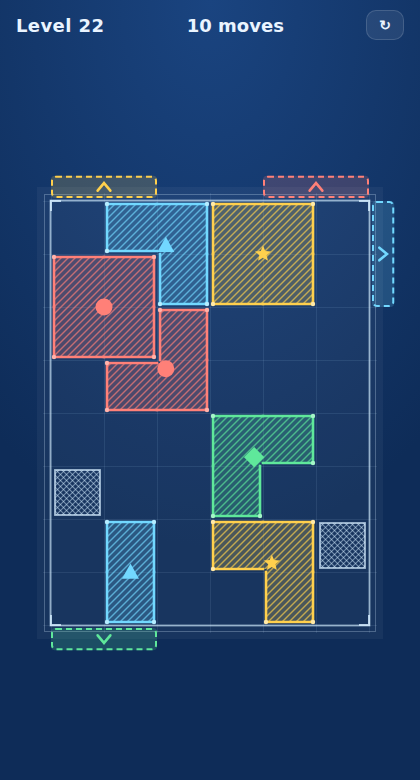
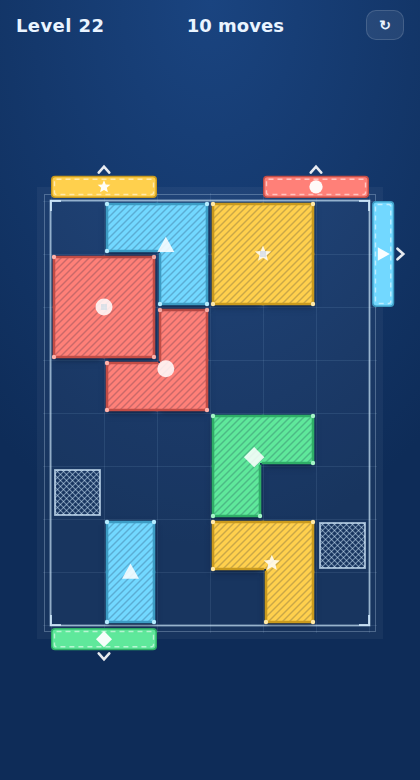
Legibility pass on all five art styles
Gate Escape: blocks are now solid ink objects with hatch as texture and a
drop shadow; gates are solid stamps with white match glyphs and chevrons.
Tarmac: wingspans constrained to the plane's own lane; per-cell corner
markings restore slide granularity. Shelved: per-color spine motifs plus a
brown swap for orange make all nine colors unambiguous. Bolt Out: etched
match symbols on every gem. All playtest bots re-verified.

Claude-Session: https://claude.ai/code/session_01XbvVqQh3C8ii6pXRsWoCLy

Changed region(s): [[0.1238, 0.2154, 0.9595, 0.8], [0.1238, 0.6462, 0.3714, 0.8615]]

diff --git a/prototypes/p01-gate-escape/dist/gate-escape.html b/prototypes/p01-gate-escape/dist/gate-escape.html
@@ -452,19 +452,22 @@ function render() {
     if (g.side === 'bottom') { gx = bx + g.start * cell; gy = by + bh + 3; w = along; h = th; ax = gx + w / 2; ay = gy + h / 2; rot = Math.PI; }
     if (g.side === 'left') { gx = bx - th - 3; gy = by + g.start * cell; w = th; h = along; ax = gx + w / 2; ay = gy + h / 2; rot = -Math.PI / 2; }
     if (g.side === 'right') { gx = bx + bw + 3; gy = by + g.start * cell; w = th; h = along; ax = gx + w / 2; ay = gy + h / 2; rot = Math.PI / 2; }
-    // stamped drafting tab: faint ink wash + dashed outline
-    ctx.fillStyle = c.main + '2e';
+    // solid ink stamp — must be unmissable at a glance
+    ctx.fillStyle = c.dark;
     rr(gx, gy, w, h, 4); ctx.fill();
-    ctx.strokeStyle = c.main; ctx.lineWidth = 2;
-    ctx.setLineDash([6, 4]);
-    rr(gx + 1, gy + 1, w - 2, h - 2, 4); ctx.stroke();
+    ctx.fillStyle = c.main;
+    rr(gx + 1.5, gy + 1.5, w - 3, h - 3, 3); ctx.fill();
+    ctx.setLineDash([5, 4]);
+    ctx.strokeStyle = 'rgba(255,255,255,.55)'; ctx.lineWidth = 1.4;
+    rr(gx + 3.5, gy + 3.5, w - 7, h - 7, 2); ctx.stroke();
     ctx.setLineDash([]);
-    // outward chevron
+    // match glyph on the tab + outward chevron floating past it
     ctx.translate(ax, ay); ctx.rotate(rot);
-    ctx.strokeStyle = c.main; ctx.lineWidth = 2.6; ctx.lineCap = 'round';
-    const ch = cell * 0.12;
+    drawGlyph(c.glyph, 0, 0, Math.min(cell * 0.13, th * 0.3), 'rgba(255,255,255,.95)');
+    ctx.strokeStyle = 'rgba(255,255,255,.9)'; ctx.lineWidth = 2.6; ctx.lineCap = 'round';
+    const ch = cell * 0.1;
     ctx.beginPath();
-    ctx.moveTo(-ch, ch * 0.6); ctx.lineTo(0, -ch * 0.6); ctx.lineTo(ch, ch * 0.6);
+    ctx.moveTo(-ch, -th * 0.62 - ch * 0.1); ctx.lineTo(0, -th * 0.62 - ch * 1.2); ctx.lineTo(ch, -th * 0.62 - ch * 0.1);
     ctx.stroke();
     ctx.restore();
   }
@@ -504,7 +507,15 @@ function render() {
     const px = bx + disp[i][0] * cell + ox, py = by + disp[i][1] * cell + oy;
     const inset = 3;
     const has = (qx, qy) => b.cells.some(([ax2, ay2]) => ax2 === qx && ay2 === qy);
-    // ink wash over the block's footprint, hatched like a drafting fill
+    // solid ink block that reads as an OBJECT on the paper: shadowed base,
+    // opaque fill, hatch kept only as a subtle texture
+    ctx.save();
+    ctx.shadowColor = 'rgba(4,14,34,.5)'; ctx.shadowBlur = dragging ? 12 : 6; ctx.shadowOffsetY = dragging ? 5 : 3;
+    ctx.fillStyle = c.dark;
+    for (const [cx, cy] of b.cells) {
+      ctx.fillRect(px + cx * cell + inset, py + cy * cell + inset, cell - inset * 2, cell - inset * 2);
+    }
+    ctx.restore();
     ctx.save();
     ctx.beginPath();
     for (const [cx, cy] of b.cells) {
@@ -516,9 +527,9 @@ function render() {
       if (has(cx, cy + 1)) ctx.rect(px + cx * cell + inset, py + cy * cell + cell - inset - 2, cell - inset * 2, inset * 2 + 4);
     }
     ctx.clip();
-    ctx.fillStyle = c.main + (dragging ? '52' : '38');
+    ctx.fillStyle = c.main;
     ctx.fillRect(px - cell, py - cell, cell * 6, cell * 6);
-    ctx.strokeStyle = c.main + 'aa';
+    ctx.strokeStyle = 'rgba(10,25,55,.22)';
     ctx.lineWidth = 1.4;
     const span = cell * 6;
     for (let d = -span; d < span; d += 7) {
@@ -530,7 +541,7 @@ function render() {
     ctx.restore();
     ctx.shadowColor = 'transparent';
     // heavy ink outline only on the block's outer edges
-    ctx.strokeStyle = c.main; ctx.lineWidth = 2.6; ctx.lineCap = 'square';
+    ctx.strokeStyle = c.dark; ctx.lineWidth = 2.6; ctx.lineCap = 'square';
     for (const [cx, cy] of b.cells) {
       const x = px + cx * cell, y = py + cy * cell;
       const L2 = x + inset, R2 = x + cell - inset, T2 = y + inset, B2 = y + cell - inset;
@@ -556,7 +567,7 @@ function render() {
       for (const [cx, cy] of b.cells) { gx2 += cx + 0.5; gy2 += cy + 0.5; }
       gx2 /= b.cells.length; gy2 /= b.cells.length;
       if (!has(Math.floor(gx2), Math.floor(gy2))) { const [cx, cy] = b.cells[0]; gx2 = cx + 0.5; gy2 = cy + 0.5; }
-      drawGlyph(c.glyph, px + gx2 * cell, py + gy2 * cell, cell * 0.16, c.main);
+      drawGlyph(c.glyph, px + gx2 * cell, py + gy2 * cell, cell * 0.16, 'rgba(255,255,255,.85)');
     }
     ctx.restore();
   }

diff --git a/prototypes/p01-gate-escape/game.js b/prototypes/p01-gate-escape/game.js
@@ -376,19 +376,22 @@ function render() {
     if (g.side === 'bottom') { gx = bx + g.start * cell; gy = by + bh + 3; w = along; h = th; ax = gx + w / 2; ay = gy + h / 2; rot = Math.PI; }
     if (g.side === 'left') { gx = bx - th - 3; gy = by + g.start * cell; w = th; h = along; ax = gx + w / 2; ay = gy + h / 2; rot = -Math.PI / 2; }
     if (g.side === 'right') { gx = bx + bw + 3; gy = by + g.start * cell; w = th; h = along; ax = gx + w / 2; ay = gy + h / 2; rot = Math.PI / 2; }
-    // stamped drafting tab: faint ink wash + dashed outline
-    ctx.fillStyle = c.main + '2e';
+    // solid ink stamp — must be unmissable at a glance
+    ctx.fillStyle = c.dark;
     rr(gx, gy, w, h, 4); ctx.fill();
-    ctx.strokeStyle = c.main; ctx.lineWidth = 2;
-    ctx.setLineDash([6, 4]);
-    rr(gx + 1, gy + 1, w - 2, h - 2, 4); ctx.stroke();
+    ctx.fillStyle = c.main;
+    rr(gx + 1.5, gy + 1.5, w - 3, h - 3, 3); ctx.fill();
+    ctx.setLineDash([5, 4]);
+    ctx.strokeStyle = 'rgba(255,255,255,.55)'; ctx.lineWidth = 1.4;
+    rr(gx + 3.5, gy + 3.5, w - 7, h - 7, 2); ctx.stroke();
     ctx.setLineDash([]);
-    // outward chevron
+    // match glyph on the tab + outward chevron floating past it
     ctx.translate(ax, ay); ctx.rotate(rot);
-    ctx.strokeStyle = c.main; ctx.lineWidth = 2.6; ctx.lineCap = 'round';
-    const ch = cell * 0.12;
+    drawGlyph(c.glyph, 0, 0, Math.min(cell * 0.13, th * 0.3), 'rgba(255,255,255,.95)');
+    ctx.strokeStyle = 'rgba(255,255,255,.9)'; ctx.lineWidth = 2.6; ctx.lineCap = 'round';
+    const ch = cell * 0.1;
     ctx.beginPath();
-    ctx.moveTo(-ch, ch * 0.6); ctx.lineTo(0, -ch * 0.6); ctx.lineTo(ch, ch * 0.6);
+    ctx.moveTo(-ch, -th * 0.62 - ch * 0.1); ctx.lineTo(0, -th * 0.62 - ch * 1.2); ctx.lineTo(ch, -th * 0.62 - ch * 0.1);
     ctx.stroke();
     ctx.restore();
   }
@@ -428,7 +431,15 @@ function render() {
     const px = bx + disp[i][0] * cell + ox, py = by + disp[i][1] * cell + oy;
     const inset = 3;
     const has = (qx, qy) => b.cells.some(([ax2, ay2]) => ax2 === qx && ay2 === qy);
-    // ink wash over the block's footprint, hatched like a drafting fill
+    // solid ink block that reads as an OBJECT on the paper: shadowed base,
+    // opaque fill, hatch kept only as a subtle texture
+    ctx.save();
+    ctx.shadowColor = 'rgba(4,14,34,.5)'; ctx.shadowBlur = dragging ? 12 : 6; ctx.shadowOffsetY = dragging ? 5 : 3;
+    ctx.fillStyle = c.dark;
+    for (const [cx, cy] of b.cells) {
+      ctx.fillRect(px + cx * cell + inset, py + cy * cell + inset, cell - inset * 2, cell - inset * 2);
+    }
+    ctx.restore();
     ctx.save();
     ctx.beginPath();
     for (const [cx, cy] of b.cells) {
@@ -440,9 +451,9 @@ function render() {
       if (has(cx, cy + 1)) ctx.rect(px + cx * cell + inset, py + cy * cell + cell - inset - 2, cell - inset * 2, inset * 2 + 4);
     }
     ctx.clip();
-    ctx.fillStyle = c.main + (dragging ? '52' : '38');
+    ctx.fillStyle = c.main;
     ctx.fillRect(px - cell, py - cell, cell * 6, cell * 6);
-    ctx.strokeStyle = c.main + 'aa';
+    ctx.strokeStyle = 'rgba(10,25,55,.22)';
     ctx.lineWidth = 1.4;
     const span = cell * 6;
     for (let d = -span; d < span; d += 7) {
@@ -454,7 +465,7 @@ function render() {
     ctx.restore();
     ctx.shadowColor = 'transparent';
     // heavy ink outline only on the block's outer edges
-    ctx.strokeStyle = c.main; ctx.lineWidth = 2.6; ctx.lineCap = 'square';
+    ctx.strokeStyle = c.dark; ctx.lineWidth = 2.6; ctx.lineCap = 'square';
     for (const [cx, cy] of b.cells) {
       const x = px + cx * cell, y = py + cy * cell;
       const L2 = x + inset, R2 = x + cell - inset, T2 = y + inset, B2 = y + cell - inset;
@@ -480,7 +491,7 @@ function render() {
       for (const [cx, cy] of b.cells) { gx2 += cx + 0.5; gy2 += cy + 0.5; }
       gx2 /= b.cells.length; gy2 /= b.cells.length;
       if (!has(Math.floor(gx2), Math.floor(gy2))) { const [cx, cy] = b.cells[0]; gx2 = cx + 0.5; gy2 = cy + 0.5; }
-      drawGlyph(c.glyph, px + gx2 * cell, py + gy2 * cell, cell * 0.16, c.main);
+      drawGlyph(c.glyph, px + gx2 * cell, py + gy2 * cell, cell * 0.16, 'rgba(255,255,255,.85)');
     }
     ctx.restore();
   }

diff --git a/prototypes/p03-poursort/dist/poursort.html b/prototypes/p03-poursort/dist/poursort.html
@@ -83,8 +83,8 @@ const LEVELS = [{"tubes":[[0,0,0,1],[],[],[1,1,1,0]],"cap":4,"par":3,"moves":9},
 'use strict';
 /* Pour Sort — tap a tube, tap another, sort every color into its own tube. */
 
-const LIQ = ['#ff5a5f', '#3f9bf5', '#37d17e', '#ffb020', '#a06ef5', '#37c8dd', '#ff7ab6', '#b6e04a', '#ff8a3c'];
-const LIQ_DARK = ['#b83438', '#295f9e', '#1f8a52', '#b57508', '#6a44b8', '#1f8b9b', '#c24f82', '#7fa22e', '#c25a1e'];
+const LIQ = ['#ff5a5f', '#3f9bf5', '#37d17e', '#ffb020', '#a06ef5', '#37c8dd', '#ff7ab6', '#b6e04a', '#a9714b'];
+const LIQ_DARK = ['#b83438', '#295f9e', '#1f8a52', '#b57508', '#6a44b8', '#1f8b9b', '#c24f82', '#7fa22e', '#7a4e30'];
 
 const cv = document.getElementById('cv');
 const ctx = cv.getContext('2d');
@@ -355,10 +355,32 @@ function render() {
       // pages (fore-edge showing on the right)
       ctx.fillStyle = '#efe6cf';
       ctx.fillRect(bx2 + bw - Math.max(3, bw * 0.09), sy + 1.5, Math.max(2, bw * 0.06), bh - 3);
-      // spine ornament: two thin bands
-      ctx.fillStyle = 'rgba(255,246,220,.5)';
-      ctx.fillRect(bx2 + bw * 0.12, sy + bh * 0.28, bw * 0.55, Math.max(1, bh * 0.08));
-      ctx.fillRect(bx2 + bw * 0.12, sy + bh * 0.55, bw * 0.36, Math.max(1, bh * 0.08));
+      // per-color spine motif: color + motif together identify a set,
+      // so near hues (red/pink, green/lime) can never be confused
+      ctx.fillStyle = 'rgba(255,250,235,.85)';
+      const mx = bx2 + bw * 0.42, my = sy + bh * 0.42, ms = Math.max(2.5, bh * 0.2);
+      const band = (n) => {
+        for (let k = 0; k < n; k++) {
+          ctx.fillRect(bx2 + bw * 0.14, sy + bh * (0.25 + k * 0.22), bw * 0.5, Math.max(1.5, bh * 0.1));
+        }
+      };
+      if (c === 0) band(1);
+      else if (c === 1) band(2);
+      else if (c === 2) band(3);
+      else if (c === 3) { ctx.beginPath(); ctx.arc(mx, my, ms * 0.7, 0, Math.PI * 2); ctx.fill(); }
+      else if (c === 4) { ctx.save(); ctx.translate(mx, my); ctx.rotate(Math.PI / 4); ctx.fillRect(-ms * 0.55, -ms * 0.55, ms * 1.1, ms * 1.1); ctx.restore(); }
+      else if (c === 5) {
+        ctx.strokeStyle = 'rgba(255,250,235,.85)'; ctx.lineWidth = Math.max(1.5, bh * 0.09); ctx.lineCap = 'round';
+        ctx.beginPath(); ctx.moveTo(mx - ms * 0.6, my - ms * 0.6); ctx.lineTo(mx + ms * 0.6, my + ms * 0.6);
+        ctx.moveTo(mx + ms * 0.6, my - ms * 0.6); ctx.lineTo(mx - ms * 0.6, my + ms * 0.6); ctx.stroke();
+      } else if (c === 6) { ctx.beginPath(); ctx.moveTo(mx, my - ms * 0.75); ctx.lineTo(mx + ms * 0.75, my + ms * 0.6); ctx.lineTo(mx - ms * 0.75, my + ms * 0.6); ctx.closePath(); ctx.fill(); }
+      else if (c === 7) {
+        ctx.beginPath(); ctx.arc(mx - ms * 0.7, my, ms * 0.42, 0, Math.PI * 2); ctx.fill();
+        ctx.beginPath(); ctx.arc(mx + ms * 0.7, my, ms * 0.42, 0, Math.PI * 2); ctx.fill();
+      } else {
+        ctx.strokeStyle = 'rgba(255,250,235,.85)'; ctx.lineWidth = Math.max(1.5, bh * 0.09);
+        ctx.beginPath(); ctx.arc(mx, my, ms * 0.65, 0, Math.PI * 2); ctx.stroke();
+      }
     }
     // soft inner shadow so books sit inside
     ctx.strokeStyle = 'rgba(0,0,0,.35)'; ctx.lineWidth = 2;

diff --git a/prototypes/p03-poursort/game.js b/prototypes/p03-poursort/game.js
@@ -1,8 +1,8 @@
 'use strict';
 /* Pour Sort — tap a tube, tap another, sort every color into its own tube. */
 
-const LIQ = ['#ff5a5f', '#3f9bf5', '#37d17e', '#ffb020', '#a06ef5', '#37c8dd', '#ff7ab6', '#b6e04a', '#ff8a3c'];
-const LIQ_DARK = ['#b83438', '#295f9e', '#1f8a52', '#b57508', '#6a44b8', '#1f8b9b', '#c24f82', '#7fa22e', '#c25a1e'];
+const LIQ = ['#ff5a5f', '#3f9bf5', '#37d17e', '#ffb020', '#a06ef5', '#37c8dd', '#ff7ab6', '#b6e04a', '#a9714b'];
+const LIQ_DARK = ['#b83438', '#295f9e', '#1f8a52', '#b57508', '#6a44b8', '#1f8b9b', '#c24f82', '#7fa22e', '#7a4e30'];
 
 const cv = document.getElementById('cv');
 const ctx = cv.getContext('2d');
@@ -273,10 +273,32 @@ function render() {
       // pages (fore-edge showing on the right)
       ctx.fillStyle = '#efe6cf';
       ctx.fillRect(bx2 + bw - Math.max(3, bw * 0.09), sy + 1.5, Math.max(2, bw * 0.06), bh - 3);
-      // spine ornament: two thin bands
-      ctx.fillStyle = 'rgba(255,246,220,.5)';
-      ctx.fillRect(bx2 + bw * 0.12, sy + bh * 0.28, bw * 0.55, Math.max(1, bh * 0.08));
-      ctx.fillRect(bx2 + bw * 0.12, sy + bh * 0.55, bw * 0.36, Math.max(1, bh * 0.08));
+      // per-color spine motif: color + motif together identify a set,
+      // so near hues (red/pink, green/lime) can never be confused
+      ctx.fillStyle = 'rgba(255,250,235,.85)';
+      const mx = bx2 + bw * 0.42, my = sy + bh * 0.42, ms = Math.max(2.5, bh * 0.2);
+      const band = (n) => {
+        for (let k = 0; k < n; k++) {
+          ctx.fillRect(bx2 + bw * 0.14, sy + bh * (0.25 + k * 0.22), bw * 0.5, Math.max(1.5, bh * 0.1));
+        }
+      };
+      if (c === 0) band(1);
+      else if (c === 1) band(2);
+      else if (c === 2) band(3);
+      else if (c === 3) { ctx.beginPath(); ctx.arc(mx, my, ms * 0.7, 0, Math.PI * 2); ctx.fill(); }
+      else if (c === 4) { ctx.save(); ctx.translate(mx, my); ctx.rotate(Math.PI / 4); ctx.fillRect(-ms * 0.55, -ms * 0.55, ms * 1.1, ms * 1.1); ctx.restore(); }
+      else if (c === 5) {
+        ctx.strokeStyle = 'rgba(255,250,235,.85)'; ctx.lineWidth = Math.max(1.5, bh * 0.09); ctx.lineCap = 'round';
+        ctx.beginPath(); ctx.moveTo(mx - ms * 0.6, my - ms * 0.6); ctx.lineTo(mx + ms * 0.6, my + ms * 0.6);
+        ctx.moveTo(mx + ms * 0.6, my - ms * 0.6); ctx.lineTo(mx - ms * 0.6, my + ms * 0.6); ctx.stroke();
+      } else if (c === 6) { ctx.beginPath(); ctx.moveTo(mx, my - ms * 0.75); ctx.lineTo(mx + ms * 0.75, my + ms * 0.6); ctx.lineTo(mx - ms * 0.75, my + ms * 0.6); ctx.closePath(); ctx.fill(); }
+      else if (c === 7) {
+        ctx.beginPath(); ctx.arc(mx - ms * 0.7, my, ms * 0.42, 0, Math.PI * 2); ctx.fill();
+        ctx.beginPath(); ctx.arc(mx + ms * 0.7, my, ms * 0.42, 0, Math.PI * 2); ctx.fill();
+      } else {
+        ctx.strokeStyle = 'rgba(255,250,235,.85)'; ctx.lineWidth = Math.max(1.5, bh * 0.09);
+        ctx.beginPath(); ctx.arc(mx, my, ms * 0.65, 0, Math.PI * 2); ctx.stroke();
+      }
     }
     // soft inner shadow so books sit inside
     ctx.strokeStyle = 'rgba(0,0,0,.35)'; ctx.lineWidth = 2;

diff --git a/prototypes/p05-boltout/dist/boltout.html b/prototypes/p05-boltout/dist/boltout.html
@@ -304,6 +304,25 @@ function drawBolt(px, py, r, color, dim) {
   ctx.fillStyle = dome;
   ctx.beginPath(); ctx.arc(0, 0, r * 0.62, 0, Math.PI * 2); ctx.fill();
   ctx.shadowColor = 'transparent';
+  // etched match symbol — every color pairs with a shape, no exceptions
+  const es = r * 0.3;
+  ctx.fillStyle = 'rgba(15,8,4,.5)';
+  ctx.strokeStyle = 'rgba(15,8,4,.5)';
+  ctx.lineWidth = Math.max(1.4, r * 0.12);
+  if (color === 0) { // red: ring
+    ctx.beginPath(); ctx.arc(0, 0, es * 0.85, 0, Math.PI * 2); ctx.stroke();
+  } else if (color === 1) { // blue: triangle
+    ctx.beginPath(); ctx.moveTo(0, -es); ctx.lineTo(es * 0.95, es * 0.75); ctx.lineTo(-es * 0.95, es * 0.75); ctx.closePath(); ctx.fill();
+  } else if (color === 2) { // green: square
+    ctx.fillRect(-es * 0.75, -es * 0.75, es * 1.5, es * 1.5);
+  } else if (color === 3) { // amber: diamond
+    ctx.save(); ctx.rotate(Math.PI / 4); ctx.fillRect(-es * 0.75, -es * 0.75, es * 1.5, es * 1.5); ctx.restore();
+  } else { // purple: cross
+    ctx.beginPath();
+    ctx.moveTo(-es, 0); ctx.lineTo(es, 0);
+    ctx.moveTo(0, -es); ctx.lineTo(0, es);
+    ctx.stroke();
+  }
   // specular
   ctx.fillStyle = 'rgba(255,255,255,.55)';
   ctx.beginPath(); ctx.ellipse(-r * 0.2, -r * 0.26, r * 0.16, r * 0.1, -0.6, 0, Math.PI * 2); ctx.fill();

diff --git a/prototypes/p05-boltout/game.js b/prototypes/p05-boltout/game.js
@@ -232,6 +232,25 @@ function drawBolt(px, py, r, color, dim) {
   ctx.fillStyle = dome;
   ctx.beginPath(); ctx.arc(0, 0, r * 0.62, 0, Math.PI * 2); ctx.fill();
   ctx.shadowColor = 'transparent';
+  // etched match symbol — every color pairs with a shape, no exceptions
+  const es = r * 0.3;
+  ctx.fillStyle = 'rgba(15,8,4,.5)';
+  ctx.strokeStyle = 'rgba(15,8,4,.5)';
+  ctx.lineWidth = Math.max(1.4, r * 0.12);
+  if (color === 0) { // red: ring
+    ctx.beginPath(); ctx.arc(0, 0, es * 0.85, 0, Math.PI * 2); ctx.stroke();
+  } else if (color === 1) { // blue: triangle
+    ctx.beginPath(); ctx.moveTo(0, -es); ctx.lineTo(es * 0.95, es * 0.75); ctx.lineTo(-es * 0.95, es * 0.75); ctx.closePath(); ctx.fill();
+  } else if (color === 2) { // green: square
+    ctx.fillRect(-es * 0.75, -es * 0.75, es * 1.5, es * 1.5);
+  } else if (color === 3) { // amber: diamond
+    ctx.save(); ctx.rotate(Math.PI / 4); ctx.fillRect(-es * 0.75, -es * 0.75, es * 1.5, es * 1.5); ctx.restore();
+  } else { // purple: cross
+    ctx.beginPath();
+    ctx.moveTo(-es, 0); ctx.lineTo(es, 0);
+    ctx.moveTo(0, -es); ctx.lineTo(0, es);
+    ctx.stroke();
+  }
   // specular
   ctx.fillStyle = 'rgba(255,255,255,.55)';
   ctx.beginPath(); ctx.ellipse(-r * 0.2, -r * 0.26, r * 0.16, r * 0.1, -0.6, 0, Math.PI * 2); ctx.fill();

diff --git a/prototypes/p02-unpark/dist/unpark.html b/prototypes/p02-unpark/dist/unpark.html
@@ -458,6 +458,12 @@ function render() {
   for (let y = 2; y < L.h; y += 2) {
     ctx.beginPath(); ctx.moveTo(bx, by + y * cell); ctx.lineTo(bx + bw, by + y * cell); ctx.stroke();
   }
+  // faint stand markings at every cell corner so slide steps read clearly
+  ctx.fillStyle = 'rgba(190,205,235,.14)';
+  for (let x = 1; x < L.w; x++) for (let y = 1; y < L.h; y++) {
+    ctx.fillRect(bx + x * cell - 3, by + y * cell - 0.75, 6, 1.5);
+    ctx.fillRect(bx + x * cell - 0.75, by + y * cell - 3, 1.5, 6);
+  }
   // taxiway centerlines: amber dashes along mid rows/cols
   ctx.strokeStyle = 'rgba(240,190,60,.28)';
   ctx.lineWidth = 2.5;
@@ -522,7 +528,8 @@ function render() {
     const along = (c.axis === 'h' ? w0 : h0);
     const ang = c.axis === 'h' ? (c.dir === 1 ? 0 : Math.PI) : (c.dir === 1 ? Math.PI / 2 : -Math.PI / 2);
     if (dragging) { ctx.shadowColor = 'rgba(0,0,0,.5)'; ctx.shadowBlur = 12; ctx.shadowOffsetY = 4; }
-    drawPlane(cx2, cy2, ang, along * 0.98, cell * (c.len === 2 ? 1.28 : 1.16), col, lift, alpha, now + i);
+    // wingspan stays inside the plane's own lane so occupancy is unambiguous
+    drawPlane(cx2, cy2, ang, along * 0.98, cell * (c.len === 2 ? 1.0 : 0.96), col, lift, alpha, now + i);
     ctx.shadowColor = 'transparent';
   }
 

diff --git a/prototypes/p02-unpark/game.js b/prototypes/p02-unpark/game.js
@@ -382,6 +382,12 @@ function render() {
   for (let y = 2; y < L.h; y += 2) {
     ctx.beginPath(); ctx.moveTo(bx, by + y * cell); ctx.lineTo(bx + bw, by + y * cell); ctx.stroke();
   }
+  // faint stand markings at every cell corner so slide steps read clearly
+  ctx.fillStyle = 'rgba(190,205,235,.14)';
+  for (let x = 1; x < L.w; x++) for (let y = 1; y < L.h; y++) {
+    ctx.fillRect(bx + x * cell - 3, by + y * cell - 0.75, 6, 1.5);
+    ctx.fillRect(bx + x * cell - 0.75, by + y * cell - 3, 1.5, 6);
+  }
   // taxiway centerlines: amber dashes along mid rows/cols
   ctx.strokeStyle = 'rgba(240,190,60,.28)';
   ctx.lineWidth = 2.5;
@@ -446,7 +452,8 @@ function render() {
     const along = (c.axis === 'h' ? w0 : h0);
     const ang = c.axis === 'h' ? (c.dir === 1 ? 0 : Math.PI) : (c.dir === 1 ? Math.PI / 2 : -Math.PI / 2);
     if (dragging) { ctx.shadowColor = 'rgba(0,0,0,.5)'; ctx.shadowBlur = 12; ctx.shadowOffsetY = 4; }
-    drawPlane(cx2, cy2, ang, along * 0.98, cell * (c.len === 2 ? 1.28 : 1.16), col, lift, alpha, now + i);
+    // wingspan stays inside the plane's own lane so occupancy is unambiguous
+    drawPlane(cx2, cy2, ang, along * 0.98, cell * (c.len === 2 ? 1.0 : 0.96), col, lift, alpha, now + i);
     ctx.shadowColor = 'transparent';
   }
 
